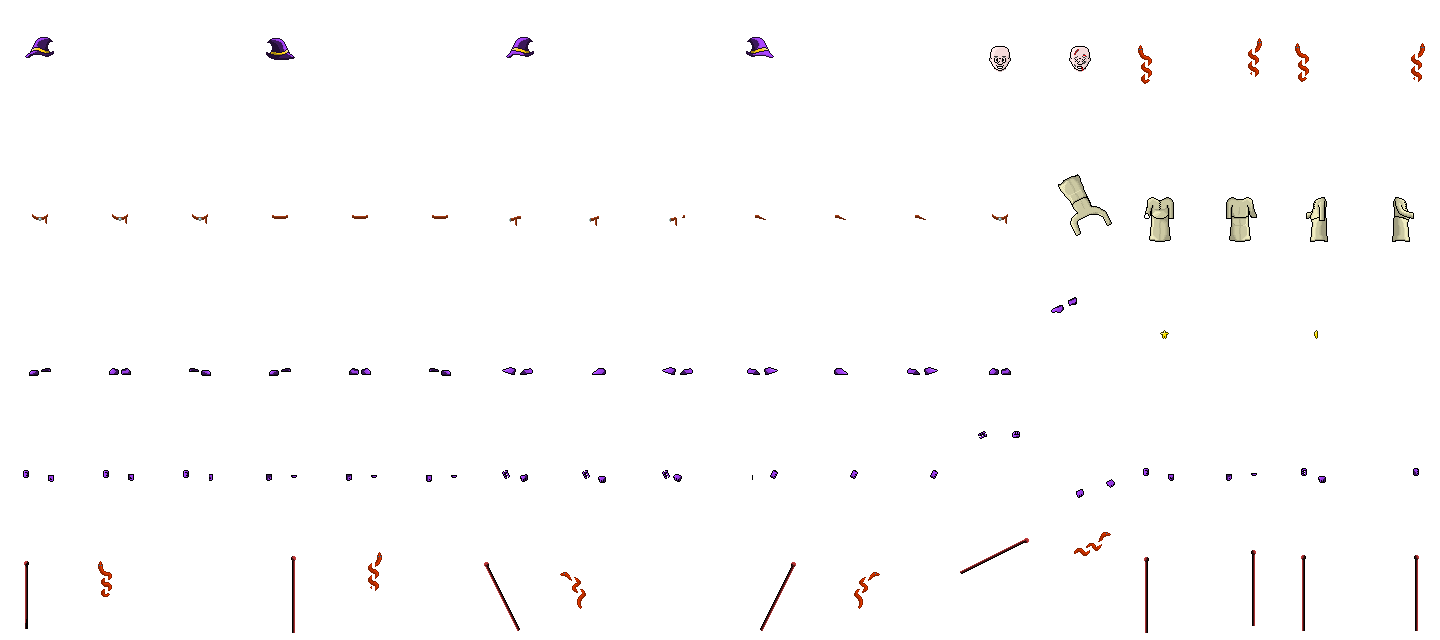
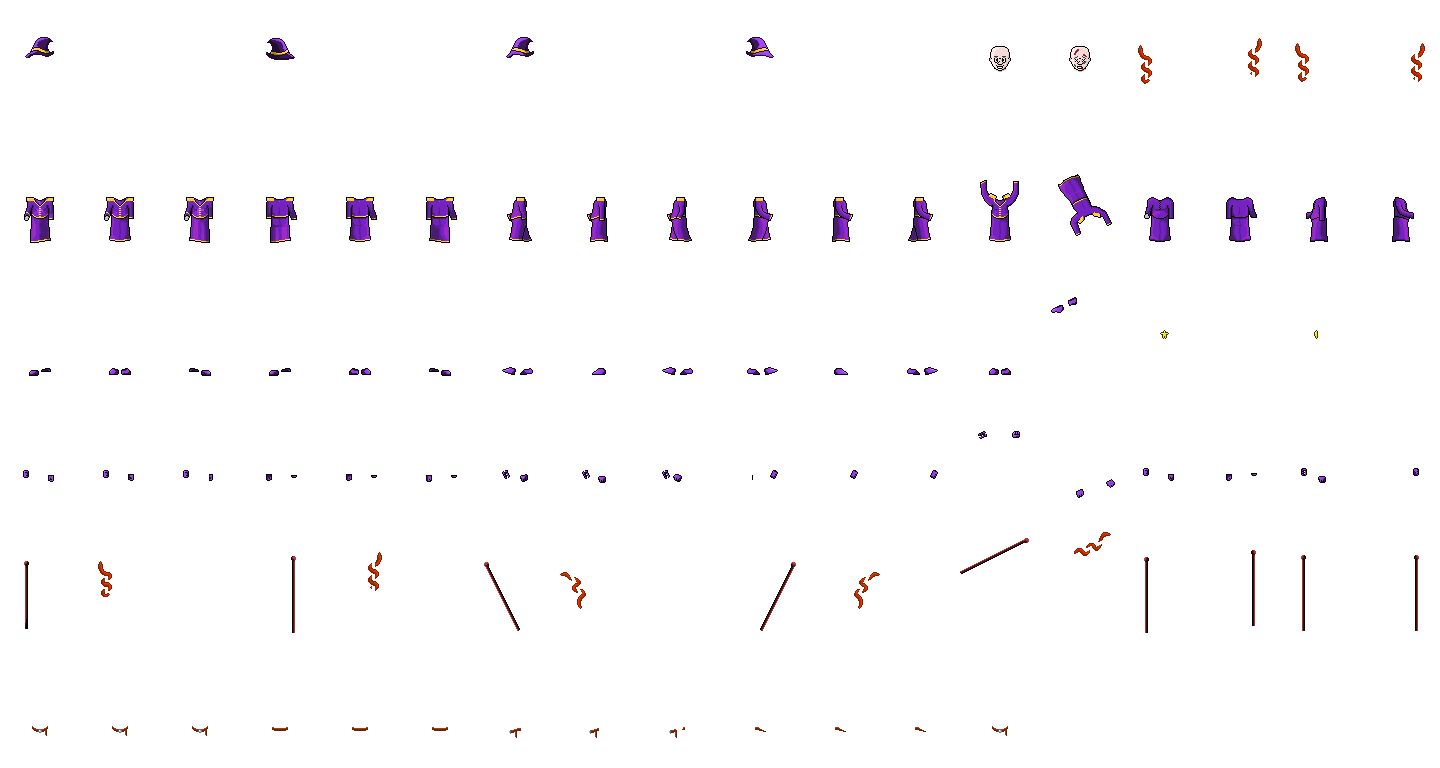
ADD New item : Magician robe
Increases armor

diff --git a/src/PlayerEntity.cpp b/src/PlayerEntity.cpp
@@ -270,8 +270,10 @@ void PlayerEntity::renderHead(sf::RenderTarget* app)
 
 void PlayerEntity::renderBody(sf::RenderTarget* app)
 {
+  if (equip[EQUIP_MAGICIAN_ROBE]) sprite.setTexture(*ImageManager::getImageManager()->getImage(IMAGE_PLAYER_EQUIP));
   sprite.setTextureRect(sf::IntRect( (frame + spriteDx) * width, height, width, height));
   app->draw(sprite);
+  sprite.setTexture(*ImageManager::getImageManager()->getImage(IMAGE_PLAYER_BASE));
 
   if (equip[EQUIP_CONCENTRATION_AMULET] && playerStatus != playerStatusDead)
   {
@@ -288,7 +290,7 @@ void PlayerEntity::renderBody(sf::RenderTarget* app)
   if (equip[EQUIP_LEATHER_BELT] && playerStatus != playerStatusDead)
   {
     sprite.setTexture(*ImageManager::getImageManager()->getImage(IMAGE_PLAYER_EQUIP));
-    sprite.setTextureRect(sf::IntRect( (frame + spriteDx) * width, height, width, height));
+    sprite.setTextureRect(sf::IntRect( (frame + spriteDx) * width, height * 5, width, height));
     app->draw(sprite);
     sprite.setTexture(*ImageManager::getImageManager()->getImage(IMAGE_PLAYER_BASE));
   }
@@ -836,7 +838,8 @@ void PlayerEntity::dying()
   {
     if (equip[i])
     {
-      if (items[i + FirstEquipItem].familiar == FamiliarNone)
+      if (items[i + FirstEquipItem].familiar == FamiliarNone
+          && i + FirstEquipItem != ItemMagicianRobe)
         loseItem(enumItemType(i), true);
     }
   }
@@ -900,6 +903,7 @@ void PlayerEntity::computePlayer()
   float creatureSpeedBonus = 1.0f;
   float fireVelocityBonus = 1.0f;
   float fireDamagesBonus = 1.0f;
+  armor = 0.0f;
 
   if (equip[EQUIP_VIBRATION_GLOVES]) fireDelayBonus -= 0.10f;
   if (equip[EQUIP_ENCHANTER_HAT]) fireDelayBonus -= 0.2f;
@@ -914,6 +918,7 @@ void PlayerEntity::computePlayer()
     fireDamagesBonus += 0.5f;
   }
   if (equip[EQUIP_BLOOD_SNAKE]) fireDamagesBonus += 0.5f;
+  if (equip[EQUIP_MAGICIAN_ROBE]) armor += 0.15f;
 
   fireDelay = INITIAL_PLAYER_FIRE_DELAY * fireDelayBonus;
   creatureSpeed = INITIAL_PLAYER_SPEED * creatureSpeedBonus;

diff --git a/src/Items.h b/src/Items.h
@@ -74,7 +74,8 @@ enum enumItemType
   ItemBookTripleShots,
   ItemBroochStar,
   ItemFairyFire,
-  ItemFairyTarget
+  ItemFairyTarget,
+  ItemMagicianRobe
 };
 
 const int FirstEquipItem = (int) ItemMagicianHat; /*!< Used as an offset when creating items */
@@ -102,7 +103,7 @@ struct itemStuct
   enumShotType specialShot;     /**< Special shot */
 };
 
-const int NUMBER_ITEMS = 30;  /*!< Total number of items */
+const int NUMBER_ITEMS = 31;  /*!< Total number of items */
 /** Array with all the items and data */
 const itemStuct items[NUMBER_ITEMS] =
 {
@@ -223,12 +224,16 @@ const itemStuct items[NUMBER_ITEMS] =
     40, true, FamiliarFairyFire, false, true, true, 2, RarityUnommon, AlignmentNone, -1, ShotTypeStandard
   },
   {
-    ItemFairyTarget, "Fairy Mary", "Helps you in the dungeon",
+    ItemFairyTarget, "Fairy Scarlett", "Helps you in the dungeon",
     40, true, FamiliarFairyTarget, false, true, true, 2, RarityUnommon, AlignmentNone, -1, ShotTypeStandard
+  },
+  {
+    ItemMagicianRobe, "Magician's Robe", "Increases armor",
+    25, true, FamiliarNone, true, true, true, 1, RarityCommon, AlignmentNone, -1, ShotTypeStandard
   }
 };
 
-const int NUMBER_EQUIP_ITEMS = 23;  /*!< Number of equip items */
+const int NUMBER_EQUIP_ITEMS = 24;  /*!< Number of equip items */
 /** Item equipment type enum
  *  All the equipments.
  */
@@ -255,7 +260,8 @@ enum item_equip_enum {
   EQUIP_BOOK_TRIPLE,
   EQUIP_BROOCH_STAR,
   EQUIP_FAIRY_FIRE,
-  EQUIP_FAIRY_TARGET
+  EQUIP_FAIRY_TARGET,
+  EQUIP_MAGICIAN_ROBE
   };
 
 #endif
